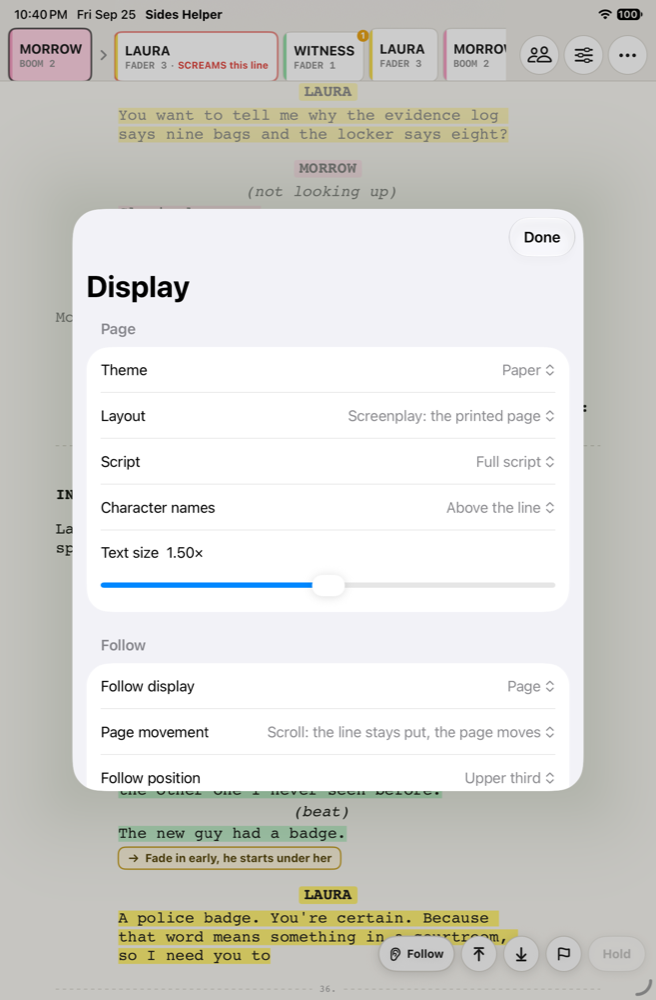
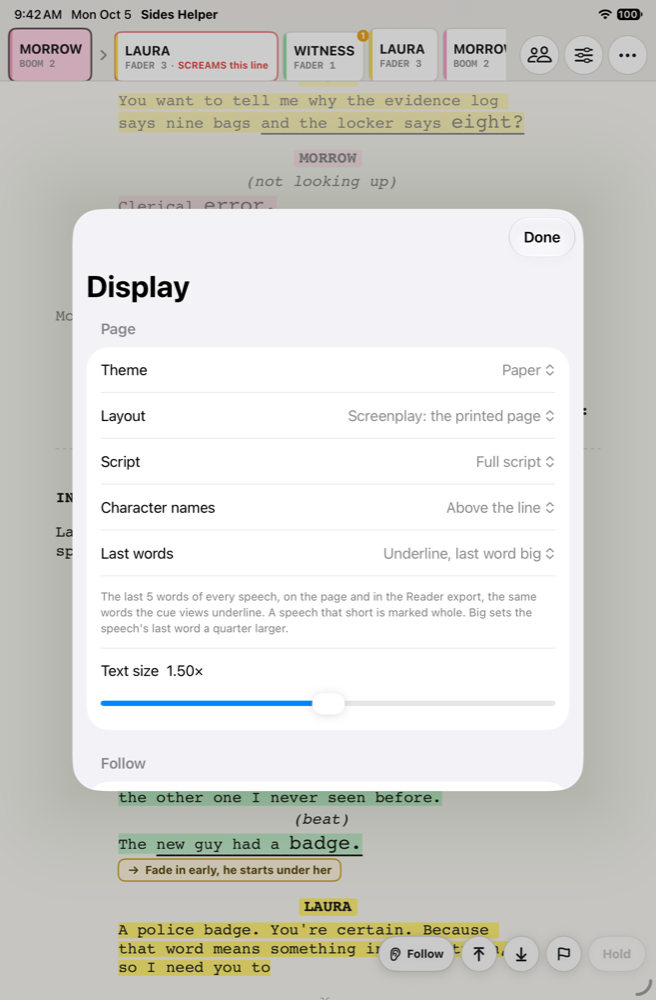
Changelog 215 and the manual's 2026-10-05 edition: Last words with three settings, the Display grab re-shot, the plainer What it is

diff --git a/manual.html b/manual.html
@@ -31,13 +31,13 @@ footer { margin-top: 48px; color: #5c5c5c; font-size: 15px; border-top: 1px soli
 <body><main>
 <header><img src="gothamsound.png" alt="Gotham Sound"></header>
 <h1>Sides Helper User Manual</h1>
-<p class="meta">For the iPad and Mac app from Gotham Sound. Updated 2026-10-04, for build 210.</p>
+<p class="meta">For the iPad and Mac app from Gotham Sound. Updated 2026-10-05, for build 215.</p>
 <nav class="toc"><p>On this page</p><ul><li><a href="#what-it-is">What it is</a></li><li><a href="#what-it-costs">What it costs</a></li><li><a href="#getting-started">Getting started</a></li><li><a href="#if-something-goes-wrong-or-you-want-something">If something goes wrong, or you want something</a></li><li><a href="#before-you-go-to-set">Before you go to set</a></li><li><a href="#loading-the-day-x27-s-sides">Loading the day&#x27;s sides</a></li><li><a href="#the-roster-and-the-key">The roster and the KEY</a></li><li><a href="#the-feed">The feed</a></li><li><a href="#during-the-take">During the take</a></li><li><a href="#follow-displays">Follow displays</a></li><li><a href="#what-the-colors-mean">What the colors mean</a></li><li><a href="#taking-control">Taking control</a></li><li><a href="#exports">Exports</a></li><li><a href="#privacy">Privacy</a></li><li><a href="#troubleshooting">Troubleshooting</a></li><li><a href="#quick-reference">Quick reference</a></li></ul></nav>
 <h2 id="what-it-is">What it is</h2>
 <p>Sides Helper is the sides tool and the read-along in one app. With nothing plugged in it does everything the free web enlarger does: opens the locked PDF, enlarges the dialogue or the whole page, highlights each character in their color, Reader mode, prints. Turn on Follow and it listens to your mix, follows the dialogue, and the screen becomes the page you&#x27;d have cut, highlighted and taped up beside the monitor, with a thin rail across the top showing who&#x27;s on now and the next five in order, each with your own source label (fader 3, boom 2, the plant) and color.</p>
 <p>It runs on an iPad with iPadOS 17 or later, or as a native Mac app on the M-series Mac mini already on your cart. An iPad that stops before iPadOS 17 has the sides tool in Safari at gotham-sound.github.io/sides-enlarger, without Follow.</p>
 <figure class="wide"><img src="manual/manual-mac-page.png" alt="The page on the Mac: the same rail, the same page, wider; the Follow button counts the trial&#x27;s days" loading="lazy"><figcaption>The page on the Mac: the same rail, the same page, wider; the Follow button counts the trial&#x27;s days</figcaption></figure>
-<p>It replaces the cut-up, taped-up sides and the highlighters. If you&#x27;re already on an iPad with Scriptation and a pedal, it replaces both: same PDF, same highlights, and the page follows the take on its own. Your mix stays yours; the app is a second set of eyes on the script.</p>
+<p>It takes the place of the cut-up, taped-up sides. On an iPad that already carries Scriptation it opens the same PDF and reads the highlights already in it, and with Follow on the page turns itself.</p>
 <p>Everything happens on the device. The script is parsed there, the speech recognition runs there, and nothing is uploaded anywhere. The app has no account and no server. You can turn Wi-Fi and cellular off and it works exactly the same.</p>
 <h2 id="what-it-costs">What it costs</h2>
 <p>The sides tool is free. Follow is free for 14 days from the first time you switch it on, then a one-time unlock; the price is on the Follow button and the unlock sheet. On the iPad that&#x27;s an in-app purchase; on the Mac it&#x27;s a license key we email you: paste it into the unlock screen, or open the .sideshelper-license file that came with it. Either way the app needs the internet to buy and never again: no subscription, no check-ins, no expiry.</p>
@@ -54,7 +54,7 @@ footer { margin-top: 48px; color: #5c5c5c; font-size: 15px; border-top: 1px soli
 <ul><li><strong>Input</strong> lists every audio device the iPad or Mac can see. Pick the recorder or mixer on the USB cable, or the interface it feeds. On the Mac, an aggregate device or Dante Virtual Soundcard appears here too. The built-in mic is for a quiet-room rehearsal and is never the feed on set. A pick here sticks; with nothing picked, the app uses a recorder over USB when one is plugged in, otherwise the built-in mic. A picked device that is not plugged in is named in the panel and at the Follow switch; the app does not listen to the mic in its place. On the Mac, the one microphone prompt from macOS covers every input, the USB feed included.</li><li><strong>Channel</strong> appears for any device with more than one: Sum (L+R) or a single channel. Sum is channels 1 and 2 averaged and nothing more. A stereo mix out wants Sum; a mono aux send on the left wants Channel 1; a recorder that streams many channels over USB wants the mix on 1 and 2, or its channel picked here. If the words come back thin or not at all, this is the first thing to check.</li><li><strong>Gain.</strong> The meter shows level after the gain. Set it so dialogue sits in the green with peaks touching orange; a soft limiter catches anything hot, so a little too much is safer than too little. There is no automatic gain, on purpose.</li><li><strong>Listen</strong> in Check the feed, from the ⋯ menu, then read the line the panel shows you into the feed. &quot;heard 6/7&quot; means the words came back; the dot at the right of the meter lights green whenever the gate hears speech; Speed under 0.5× means the device is keeping up. That is the whole check for the day.</li><li><strong>The choice sticks.</strong> If the cable is pulled, a Feed lost banner shows and the app waits for the same device. It never switches to the built-in mic on its own.</li></ul>
 <figure><img src="manual/manual-feed.png" alt="Check the feed: the input as picked in Settings, the gain slider, the meter with the gate&#x27;s dot at its right, Listen, then the window and the counters" loading="lazy"><figcaption>Check the feed: the input as picked in Settings, the gain slider, the meter with the gate&#x27;s dot at its right, Listen, then the window and the counters</figcaption></figure>
 <p><strong>6. Pick the Follow display.</strong> The sliders icon opens Display. Follow display: Page (the default, the taped-up page that follows), Drum, or Horizon. What each one shows is under Follow displays below.</p>
-<figure><img src="manual/manual-display.png" alt="Display: the page options, theme, layout, script, names and text size, with the Follow section below" loading="lazy"><figcaption>Display: the page options, theme, layout, script, names and text size, with the Follow section below</figcaption></figure>
+<figure><img src="manual/manual-display.png" alt="Display: the page options, theme, layout, script, names, Last words and text size, with the Follow section below" loading="lazy"><figcaption>Display: the page options, theme, layout, script, names, Last words and text size, with the Follow section below</figcaption></figure>
 <h2 id="if-something-goes-wrong-or-you-want-something">If something goes wrong, or you want something</h2>
 <p>Send a report, in the ⋯ menu next to Settings, and on the Mac under the app menu. Settings itself is in the ⋯ menu, on the first screen before any sides are open, and on the Mac under the app menu (Cmd-,); it also carries a User manual link, which opens this manual in your browser, and on the Mac the Help menu does the same. Pick Bug or Idea, tap Build the zip and open Mail, and the app opens an email to us with a small zip attached: the app version, your device and feed, your settings, and the app&#x27;s own logs. It never includes the script, the audio, or your notes, and character names go only if you tick Include character names on the sheet; unticked, they read NAME 1, NAME 2 and so on. Write what happened and send. The report id on screen is how we&#x27;ll find it if you call instead.</p>
 <p>What changed in each build is on the <a href="https://gotham-sound.github.io/sides-helper-site/changelog.html">changelog page</a>; the build you have is in Settings.</p>
@@ -93,10 +93,10 @@ footer { margin-top: 48px; color: #5c5c5c; font-size: 15px; border-top: 1px soli
 <p><strong>A hollow chip</strong> is a character you haven&#x27;t given a source. They still show in the rail so you see them coming.</p>
 <p><strong>Notes.</strong> Press a line to write yourself a note: hold a finger on it, touch it with the Pencil, or on the Mac double-click it (a right-click works too). &quot;Fade in early, he starts under her,&quot; &quot;screams this line,&quot; whatever you&#x27;d have scrawled in the margin. It shows under the line in a little box, and it rides the rail: the chip for that line carries a badge while it&#x27;s further out, and shows the note text when that line is next. Mark one as a warning and the chip pulses when it comes up. Tap a note to change or delete it. On a take, the flag button beside Hold drops a flag on the line being heard, and held, on the next speaker&#x27;s line. Your quick phrases appear beside the bar for a few seconds: tap one and the flag has its words, tap the warning glyph and it is a warning, or leave it and it stays a flag to fill in between takes. A flag shows as a flag under the line and on the rail. Notes are remembered by show, and when a new draft of the sides comes in they find their line again; anything that can&#x27;t find its line waits under Notes that lost their line, in the ⋯ menu, rather than disappearing.</p>
 <p><strong>Bigger notes, and the Pencil.</strong> Display has a note size: normal, large, or huge, for one you can read from the boom. With an Apple Pencil you can write the note instead of typing it. By default your handwriting turns into text as you write. Switch to Ink in Display and it stays exactly as you scrawled it, on the page and as a small thumbnail on the rail. Ink is the iPad&#x27;s; on the Mac, notes are typed.</p>
-<p><strong>Make it yours.</strong> The sliders icon at the top right opens Display. Paper, dark, or follow the iPad. Layout: Screenplay, the printed page, or Reader, the web tool&#x27;s Reader mode set full width in a serif with the wraps removed, twice the size by default with its own slider up to 3×. How far ahead the rail shows, one to five. Full script or dialogue only. Names centered like the page or in a left column. Where the current line sits while following, Scroll or Turn for how the page moves, Stay in the scene (the scene lock, below), Underline the last words (the last five words of every speech underlined, on the page and in the Reader export; off until you turn it on), text size, which a pinch on the page sets too, two fingers on the iPad or the trackpad on the Mac, for the layout you are in. And the quick labels on the KEY keypad, so if you call it a hop it says HOP. All of it sticks on this device.</p>
+<p><strong>Make it yours.</strong> The sliders icon at the top right opens Display. Paper, dark, or follow the iPad. Layout: Screenplay, the printed page, or Reader, the web tool&#x27;s Reader mode set full width in a serif with the wraps removed, twice the size by default with its own slider up to 3×. How far ahead the rail shows, one to five. Full script or dialogue only. Names centered like the page or in a left column. Where the current line sits while following, Scroll or Turn for how the page moves, Stay in the scene (the scene lock, below), Last words (off; the last five words of every speech underlined, on the page and in the Reader export; or underlined with the speech&#x27;s last word set a quarter larger), text size, which a pinch on the page sets too, two fingers on the iPad or the trackpad on the Mac, for the layout you are in. And the quick labels on the KEY keypad, so if you call it a hop it says HOP. All of it sticks on this device.</p>
 <figure><img src="manual/manual-reader.png" alt="The Reader layout on the iPad mini: the same page set full width in a serif, names centered, the highlights, the cursor bar and a note where they were" loading="lazy"><figcaption>The Reader layout on the iPad mini: the same page set full width in a serif, names centered, the highlights, the cursor bar and a note where they were</figcaption></figure>
 <h2 id="follow-displays">Follow displays</h2>
-<p>The page is one of three ways to watch a take. Display &gt; Follow display picks one. All four read the same tracker and show the same names, sources and colors.</p>
+<p>The page is one of three ways to watch a take. Display &gt; Follow display picks one. All three read the same tracker and show the same names, sources and colors.</p>
 <p><strong>Page</strong>, the default. The taped-up page, following, with the rail across the top: who is on now and the next five.</p>
 <figure><img src="manual/manual-dark.png" alt="The page in the dark theme, easier under a tent" loading="lazy"><figcaption>The page in the dark theme, easier under a tent</figcaption></figure>
 <p><strong>Drum.</strong> Portrait, for the mini on the mount. Lines on a wheel under a band in the top third of the screen: the line just heard above it, the line being heard under the band at full size with its last words underlined (the outcue), the lines to come beneath, receding. Names carry; the words are the cues. When the current line is about to end, the next name blinks: on deck. The blink is a lead, not a fact.</p>

diff --git a/changelog.html b/changelog.html
@@ -17,6 +17,11 @@ footer { margin-top: 48px; color: #5c5c5c; font-size: 15px; border-top: 1px soli
 <header><img src="gothamsound.png" alt="Gotham Sound"></header>
 <h1>Sides Helper Changelog</h1>
 <p>One entry per build that reached testers, newest first. The build number is in Settings on both platforms and in the Mac disk image's Read me first. The same page is on the site at https://gotham-sound.github.io/sides-helper-site/changelog.html.</p>
+<h2>Build 215, 2026-10-05 (iPad and Mac)</h2>
+<ul>
+<li>Display &gt; Page &gt; Last words has three settings now: Off, Underline, and Underline with the last word big. Big sets the last word of every speech a quarter larger, the same word the Reader export sets big. The switch you had on before reads as Underline.</li>
+<li>The sides engine is 1.18.0. Nothing changes on the page unless you turn the last word on.</li>
+</ul>
 <h2>Build 210, 2026-10-04 (iPad and Mac)</h2>
 <ul>
 <li>The underline under the last words of a speech is heavier and sits below the letters, the same line the Reader export draws, and it reads over the highlight. On iPadOS 17 and macOS 14 it stays the thinner one.</li>
